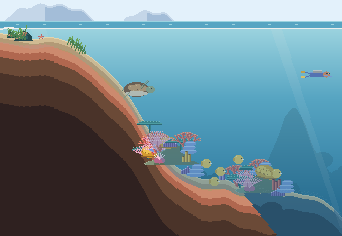
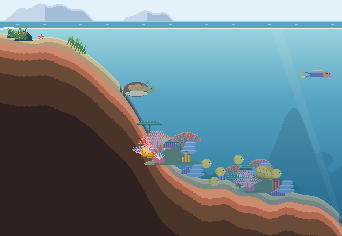
Summer bay: earth layers run on under the whole seabed, no hard fault line (art only)
Claude-Session: https://claude.ai/code/session_01QXRFGGwh6ntFozGXtHod51

Changed region(s): [[0.7018, 0.8008, 1.0, 1.0], [0.3509, 0.3559, 0.4094, 0.5042], [0.4094, 0.5042, 0.4386, 0.5636]]

diff --git a/art/src/concept/summer_bay.py b/art/src/concept/summer_bay.py
@@ -147,10 +147,12 @@ EARTH = np.zeros((GH, GW), bool)    # cut-open earth: stays warm, no water fog
 
 def strata(s):
     """The cut-open land: wavy bands that follow the ground and dip under the
-    sea along the slope; fades into the dive map's own seabed."""
+    sea and run on under the whole seabed (owner: no hard line between earth
+    and reef). Where the seabed is steep the skin is bare rock, not sand."""
     rnd = random.Random(7)
-    for x in range(LAND + 520):
+    for x in range(GW):
         g = GROUND[x]
+        steep = abs(GROUND[min(GW - 1, x + 3)] - GROUND[max(0, x - 3)]) / 6
         wob = 2 * math.sin(x * 0.045) + 1.5 * math.sin(x * 0.13 + 1)
         for y in range(g, GH):
             d = y - g
@@ -161,12 +163,11 @@ def strata(s):
             col = STRATA[k][1]
             if d < 3 and x < 470 - 30 * SS.BAYER[y % 4, x % 4]:     # lawn round the lodge, fading into sand
                 col = (P.grass[3], P.grass[2], P.grass[1])[d]
-            if x >= LAND:                                            # under the sea the earth ends along a slanted
-                edge = (JOIN - LAND + 10) + 0.8 * (y - GROUND[JOIN]) + (1 if SS.BAYER[y % 4, x % 4] > 0.5 else 0)
-                if x - LAND > edge:                                  # line, like a fault: the reef rock goes on
-                    continue
+            if x >= LAND:
                 if y > WL and k < 3:                                 # wet sand one shade darker
                     col = P.sand[max(0, P.sand.index(col) - 1)]
+                if steep > 1.2 and d < 7:                            # bare rock skin on steep faces
+                    col = (P.sea_grey[3], P.sea_grey[2], P.sea_grey[2], P.sea_grey[1], P.sea_grey[1], P.walnut[1], P.walnut[1])[d]
             s.set(x, y, col)
             EARTH[y, x] = True
         if x >= LAND:

diff --git a/docs/SUMMER_SEA.md b/docs/SUMMER_SEA.md
@@ -157,3 +157,5 @@ PYTHONPATH=tools python3 -m pixelkit build art/src/concept/summer_isle.py art/sr
   drop-off) to `JOIN` = LAND+250; the earth ends along a line slanting down-right.
 - Round 5: owner found the cumulus towers fake; the sky now uses the game's own drifting
   clouds (`beach.cloud(i)`, the sprites the page drifts). `BP.cumulus` is unused.
+- Round 6: owner found the slanted earth/reef line stiff. The earth strata now run on
+  under the whole seabed (like the owner's sketch); steep faces get a bare-rock skin.

diff --git a/docs/AGENT_LOG.md b/docs/AGENT_LOG.md
@@ -7,6 +7,9 @@ owner decisions made, what was not tested. Keep older entries; trim beyond ~40 e
 ---
 
 ## 2026-10-31 · Claude
+- Bay round 6: earth strata continue under the whole seabed (no fault line). Art only.
+
+## 2026-10-31 · Claude
 - Bay round 5: clouds switched back to the game's drifting clouds (`beach.cloud`). Art only.
 
 ## 2026-10-31 · Claude
